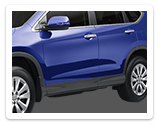
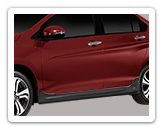
fix body kit - city

diff --git a/index.html b/index.html
@@ -671,27 +671,39 @@
 								<div class="customizer-container city-div-car-body pull-left">
 										<p class="customizer-title">BODY KITS</p>
 										<p class="customizer-info">Select body kit one for each category.</p>
-										<div class="city-customizer-grill-2 customizer-item-3-1 pull-left customizer-selector type-grill">
-												<img src="images/assets/city/buttons/grill/2.png" alt="Front &amp; Back Grill 1" width="120">
-												<p>Front/Back Grill 1</p>
-										</div>
-										<div class="city-customizer-grill-3 customizer-item-3-1 customizer-item-last pull-left customizer-selector type-grill"><img src="images/assets/city/buttons/grill/3.png" alt="Front &amp; Back Grill 2" width="120">
-												<p>Front/Back Grill 2</p>
-										</div>
-										<div class="city-customizer-skirt-2 customizer-item-3-1 pull-left customizer-selector
-									type-skirt">
-												<img src="images/assets/city/buttons/skirt/2.png" alt="Side Skirts 1" width="120">
-												<p>Side Skirt 1</p>
-										</div>
-										<div class="city-customizer-skirt-3 customizer-item-3-1 pull-left customizer-selector type-skirt"><img src="images/assets/city/buttons/skirt/3.png" alt="Side Skirts 2" width="120">
-												<p>Side Skirt 2</p>
-										</div>
-										<div class="city-customizer-spoiler-2 customizer-item-3-1 pull-left customizer-selector type-spoiler"><img src="images/assets/city/buttons/spoiler/2.png" alt="Spoiler 1" width="120">
-												<p>Spoiler 1</p>
-										</div>
-										<div class="city-customizer-spoiler-3 customizer-item-3-1 pull-left customizer-selector type-spoiler"><img src="images/assets/city/buttons/spoiler/3.png" alt="Spoiler 2" width="120">
-												<p>Spoiler 2</p>
-										</div>
+										<div class="city-customizer-grill-1 customizer-item-3-1 pull-left customizer-selector type-grill">
+                                                <img src="images/assets/city/buttons/grill/1.png" alt="Front &amp; Back Grill 1" width="110">
+                                                <p>Front/Back Grill 1</p>
+                                        </div>
+                                        <div class="city-customizer-grill-2 customizer-item-3-1 pull-left customizer-selector type-grill">
+                                                <img src="images/assets/city/buttons/grill/2.png" alt="Front &amp; Back Grill 2" width="110">
+                                                <p>Front/Back Grill 2</p>
+                                        </div>
+                                        <div class="city-customizer-grill-3 customizer-item-3-1 customizer-item-last pull-left customizer-selector type-grill">
+                                            <img src="images/assets/city/buttons/grill/3.png" alt="Front &amp; Back Grill 3" width="110">
+                                                <p>Front/Back Grill 3</p>
+                                        </div>
+                                        <div class="city-customizer-skirt-1 customizer-item-3-1 pull-left customizer-selector type-skirt">
+                                                <img src="images/assets/city/buttons/skirt/1.png" alt="Side Skirts 1" width="110">
+                                                <p>Side Skirt 1</p>
+                                        </div>
+                                        <div class="city-customizer-skirt-2 customizer-item-3-1 pull-left customizer-selector type-skirt">
+                                            <img src="images/assets/city/buttons/skirt/2.png" alt="Side Skirts 2" width="110">
+                                                <p>Side Skirt 2</p>
+                                        </div>
+                                        <div class="city-customizer-skirt-3 customizer-item-3-1 pull-left customizer-selector type-skirt customizer-item-last">
+                                            <img src="images/assets/city/buttons/skirt/3.png" alt="Side Skirts 3" width="110">
+                                                <p>Side Skirt 3</p>
+                                        </div>
+                                        <div class="city-customizer-spoiler-1 customizer-item-3-1 pull-left customizer-selector type-spoiler"><img src="images/assets/city/buttons/spoiler/1.png" alt="Spoiler 1" width="110">
+                                                <p>Spoiler 1</p>
+                                        </div>
+                                        <div class="city-customizer-spoiler-2 customizer-item-3-1 pull-left customizer-selector type-spoiler"><img src="images/assets/city/buttons/spoiler/2.png" alt="Spoiler 2" width="110">
+                                                <p>Spoiler 2</p>
+                                        </div>
+                                        <div class="city-customizer-spoiler-3 customizer-item-3-1 pull-left customizer-selector type-spoiler customizer-item-last"><img src="images/assets/city/buttons/spoiler/3.png" alt="Spoiler 3" width="110">
+                                                <p>Spoiler 3</p>
+                                        </div>
 								</div>
 								<div class="customizer-container city-div-car-background pull-left">
 										<p class="customizer-title">BACKGROUND</p>
